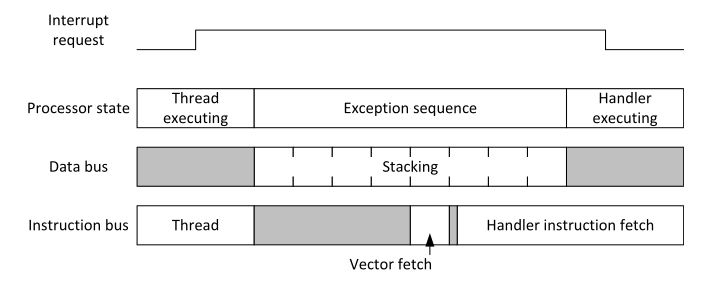
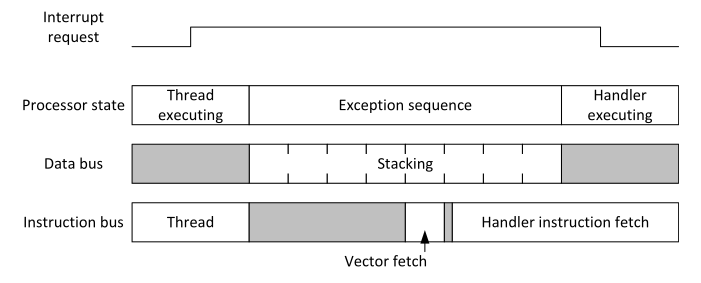
Mas preguntas y figuras

diff --git a/README.md b/README.md
@@ -63,6 +63,8 @@ SRAM region
 Periféricos
 Control interno del procesador y funciones de debuging
 
+![Mapa de memoria](/Figuras/MapaDeMemoria.png)
+
 5. ¿Qué ventajas presenta el uso de los “shadowed pointers” del PSP y el MSP?
 
 MSP: Main Stack Pointer es el stack pointer por defecto. Se utiliza en el modo Thread cuando el CONTROL bit[1] (SPSEL) es 0 y en el modo Handler se utiliza siempre.
@@ -166,21 +168,59 @@ Una vez que se de una excepción y el procesador la acepte se producen 2 accione
 Primero se guarda el estado actual del procesador (valores de los registros, del stack actual, PC, Bloque de control, etc.) en el stack para que una vez que la excepción termine el procesador vuelva al mismo lugar donde se había quedado
 Segundo se busca en el NVIC el vector a la interrupción que se produjo para conseguir la dirección de las instrucciones del mismo.
 
-![Interrupcion](/Figuras/Interrupt.png)
+![Interrupción](/Figuras/Interrupt.png)
+
+El stack que se usa para el stacking puede ser el PSP o el MSP pero una vez que entra en la interrupción al estar usando modo Handler si o si se va a utilizar el MSP. Por ende cualquier interrupción que se anide en el vector a partir de la primera va a ser en el MSP.
+
+![Interrupción anidada](/Figuras/NestedInterrupt.png)
 
 17. ¿Cómo cambia la operación de stacking al utilizar la unidad de punto flotante?
 
+Debido a que la unidad de punto flotante posee 32 registros de 32 bits cada uno que pueden estar separados o agrupados en 16 double word el proceso del stacking se vuelve mucho mas largo.
+Una solución a esto es la utilizacion del *lazy stacking* en el cual se va a leer el estado de diferentes bits en el registro de CONTROL para saber si es necesario guardar el estado de estos registros o no cuando se produzca un stacking. Esto esta activado por defecto y no es necesario ningún manejo de registros durante el handler exception debido a que el hardware propio se encarga.
+Ej:
+Si el bit FPCA del registro CONTROL indica si el contexto actual esta utilizando una operación de punto flotante o no (1 cuando la ejecuta y 0 cuando no).  
+
 18. Explique las características avanzadas de atención a interrupciones: tail chaining y late arrival.
+
+Si se produce una excepción y el procesador ya se encuentra procesando una de la misma o mayor prioridad esta nueva excepción entra en un estado pendiente. Cuando el procesador termine la excepción actual en vez de volver a cargar todos los registros y el estado del programa pre excepción para volver a cargarlos al stack para atender la nueva interrupción este va a saltar directamente al exception handler de ella. Esto ahorra mucho tiempo de proceso y se conoce como **tail chaining**
+
+![Tail Chaining](/Figuras/TailChaining.png)
+
+En cambio si durante la acción del stacking el procesador recibe una excepción de mayor prioridad este va a continuar con el stacking pero va a buscar el Exception Handler de la segunda excepción sin tener que guardar el stack de la primer excepción. Esto ahorra tiempo y espacio del stack. Esto es conocido como **late arrival.**
+
+![Late Arrival](/Figuras/LateArrival.png)
 
 19. ¿Qué es el systick? ¿Por qué puede afirmarse que su implementación favorece la portabilidad de los sistemas operativos embebidos?
 
+El SysTick es un timer integrado directamente en los Cortex-M que ya esta integrado en el NVIC que puede tomar como referencia el clock del sistema o un externo. Para la implementación de un OS es necesario la implementación de un sistema de timings que el kernel pueda invocar regularmente. También tiene como medida de seguridad que solo se puede desactivar si se esta corriendo en handler mode (El procesador esta diseñado así)
+Todos los Cortex-M cuentan con este timer por ende un OS escrito en cualquier Cortex-M4 puede ser porteado a otro Cortex-M4 sin mayor dificulta favoreciendo la portabilidad de OSs.
+
 20. ¿Qué funciones cumple la unidad de protección de memoria (MPU)?
+
+La MPU es un periférico opcional que esta puede estar presente en los Cortex-M4. Su principal función es definir niveles de permiso de acceso a memoria (Acceso Completo o Acesso Privilegiado Unicamente) a distintos sectores de la memoria (Cortex-M4 soporta hasta 8 regiones programables con diferentes espacios, direcciones y configuraciones).
+Una de las funciones es evitar que diferentes aplicaciones puedan corromper memoria o stack utilizado por otros programas o el propio OS. Si la aplicación falla, la única que falla va a ser ella y no va a llevarse consigo a todo el sistema.
+También previene que se cualquier aplicación pueda acceder a distintos periféricos que pueden ser críticos o generar problemas de seguridad. Puede desactivar la ejecución de código de zonas de memoria no permitida como la RAM
+Si se produciera un acceso no autorizado pueden ocurrir una de dos excepciones de alta prioridad (MemManage o HardFault)
 
 21. ¿Cuántas regiones pueden configurarse como máximo? ¿Qué ocurre en caso de haber solapamientos de las regiones? ¿Qué ocurre con las zonas de memoria no cubiertas por las regiones definidas?
 
+La MPU puede definir hasta 8 regiones de memoria cada una con diferente tamaño, direcciones de inicio y configuraciones especificas.
+Si el Bit PRIVDEFENA esta en 0 y el MPU esta activado toda memoria que no se encuentre en una de las 8 posibles regiones definidas en el MPU va a generar un fallo. Todas estas regiones no excluidas de los 8 espacios se los conoce como background region.
+
+![Mapa de memoria protegido](/Figuras/ProteccionMPU.png)
+
 22. ¿Para qué se suele utilizar la excepción PendSV? ¿Cómo se relaciona su uso con el resto de las excepciones? Dé un ejemplo
 
-23. ¿Para qué se suele utilizar la excepción SVC? Expliquelo dentro de un marco de un sistema operativo embebido.
+Pended Service Call es una excepción que se pone en estado pendiente escribiendo al ICSR. Al no ser precisa esta puede ser activada por una excepción de mayor prioridad y no va a ser ejecutada hasta que esta termine. Debido a este comportamiento podemos poner en la queue esta tarea hasta que todas las tareas de mayor prioridad fueran cubiertas mientras la configuremos con la menor prioridad.
+Ej:
+Si una ISR A tiene una parte que es muy dependiente del tiempo y una parte que no lo es se puede setear la mayor prioridad a la excepción A y en algún momento de la misma activar el estatus del PendSV. Una vez que termine la sección time dependant y si no hay ninguna excepción de mayor prioridad se va a empezar a ejecutar el PendSV antes de volver a la aplicación principal. Esto nos dejaría atender cualquier otra excepción que surja en el medio de esta segunda parte no Time dependant. Cuando termine el PendSV se puede volver a la ejecución del código normal.
+
+![Uso del PendSV](/Figuras/PendSV.png)
+
+23. ¿Para qué se suele utilizar la excepción SVC? Explique lo dentro de un marco de un sistema operativo embebido.
+
+SuperVisorCall es una excepción que tiene un comportamiento diferente a otras interrupciones. En una interrupción común pueden pasar varias instrucciones entre que el estado de pendiente y la ejecución de la misma se efectué. En cambio el SVC tiene que correr el handler correspondiente apenas esta excepción es llamada. Debido a esto es útil dentro de un OS ya que nos puede abstraer de la capa de hardware ya que nuestra aplicación llama a un SVC para un recurso el cual no tiene acceso y el OS se encarga (previamente programado en otra tarea) de proveer lo necesario a la aplicación para correr. También puede usarse para generar cambios de contexto cuando la tarea tiene que esperar a algún periférico o dato por su naturaleza de inmediata
 
 #### ISA
 
